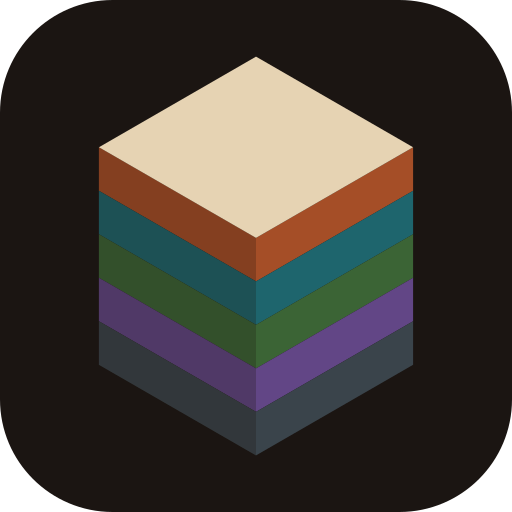
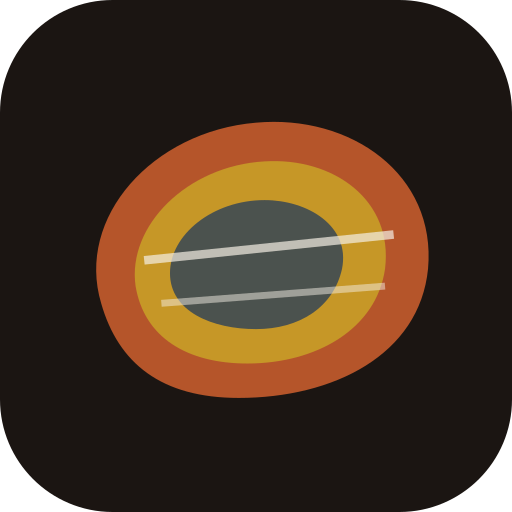
Il marchio torna il sasso a tre strati; le icone dell'app rifatte da quello (il PNG vecchio era corrotto)

diff --git a/scripts/marchio.ts b/scripts/marchio.ts
@@ -1,61 +1,46 @@
-// Il marchio di UniGeo: un blocco di roccia in isometrica, con gli strati nei
-// colori delle cinque materie (gli stessi della striscia sotto la barra).
-// Genera public/favicon.svg, public/icone/unigeo.svg e le versioni PNG:
-// icona dell'app (192, 512), mascherabile (512), apple-touch (180), favicon (32).
+// Il marchio di UniGeo: il sasso a tre strati (ruggine, ocra, ardesia) con le
+// due venature chiare. Genera public/favicon.svg, public/icone/unigeo.svg e le
+// versioni PNG: icona dell'app (192, 512), mascherabile (512), apple-touch (180),
+// favicon (32, trasparente).
 // Uso: npx tsx scripts/marchio.ts
 import { mkdirSync, writeFileSync } from "node:fs";
 import sharp from "sharp";
 
-const STRATI = ["#B5552A", "#1F6F78", "#3F6E3A", "#6A4C93", "#3E4A52"];
-const SABBIA = "#e6d3b3";
 const FONDO = "#1b1512";
-const INK = "#1a110c";
 
-/**
- * Il disegno in un riquadro 100 × 100.
- * @param scala 1 = il blocco occupa circa i due terzi del riquadro
- * @param angoli raggio dei lati dello sfondo (0 = a tutto campo, per le icone mascherabili)
- */
-function marchio(scala: number, angoli: number): string {
-  const A = 26 * scala;
-  const B = 15 * scala;
-  const H = 36 * scala;
-  const cx = 50;
-  const cy = 50 - (H + 2 * B) / 2 + B; // lo spigolo di sopra: il blocco sta al centro
-  const P = (x: number, y: number, z: number) => `${(cx + (x - y) * A).toFixed(2)},${(cy - B + (x + y) * B + z).toFixed(2)}`;
-  // x e y corrono lungo i due spigoli della base; z scende (verso il basso dello schermo).
-  const sinistra = (z0: number, z1: number) => [P(0, 1, z0), P(1, 1, z0), P(1, 1, z1), P(0, 1, z1)].join(" ");
-  const destra = (z0: number, z1: number) => [P(1, 1, z0), P(1, 0, z0), P(1, 0, z1), P(1, 1, z1)].join(" ");
-  const sopra = [P(0, 0, 0), P(1, 0, 0), P(1, 1, 0), P(0, 1, 0)].join(" ");
-  const passo = H / STRATI.length;
-  const bande = STRATI.map((c, i) => {
-    const z0 = i * passo;
-    const z1 = (i + 1) * passo;
-    return `<polygon points="${sinistra(z0, z1)}" fill="${c}"/><polygon points="${destra(z0, z1)}" fill="${c}"/>`;
-  }).join("");
+// Il disegno originale (riquadro 100 × 100, centro a 50,51).
+const SASSO = `<path d="M14,62 C8,42 26,22 50,20 C72,18 92,32 90,54 C88,74 68,84 46,84 C28,84 18,76 14,62 Z" fill="#B5552A"/>
+<path d="M22,58 C20,44 34,30 52,29 C68,28 82,38 80,54 C78,68 64,76 48,76 C34,76 24,70 22,58 Z" fill="#C9A227" opacity=".85"/>
+<path d="M30,55 C30,46 40,38 52,38 C62,38 72,44 70,54 C68,63 60,68 50,68 C40,68 30,64 30,55 Z" fill="#3E4A52" opacity=".9"/>
+<path d="M24,52 L82,46" stroke="#F4EEE3" stroke-width="2" opacity=".7"/>
+<path d="M28,62 L80,58" stroke="#F4EEE3" stroke-width="1.6" opacity=".5"/>`;
+
+/** Il sasso su fondo scuro, a scala `scala` e al centro del riquadro. */
+function suFondo(scala: number, angoli: number): string {
   return `<svg xmlns="http://www.w3.org/2000/svg" viewBox="0 0 100 100">
 <rect width="100" height="100" rx="${angoli}" fill="${FONDO}"/>
-${bande}
-<polygon points="${sinistra(0, H)}" fill="${INK}" fill-opacity="0.32"/>
-<polygon points="${destra(0, H)}" fill="${INK}" fill-opacity="0.1"/>
-<polygon points="${sopra}" fill="${SABBIA}"/>
+<g transform="translate(50 50) scale(${scala}) translate(-50 -51)">
+${SASSO}
+</g>
 </svg>
 `;
 }
+
+const trasparente = `<svg viewBox="0 0 100 100" xmlns="http://www.w3.org/2000/svg">
+${SASSO}
+</svg>
+`;
 
 async function png(svg: string, lato: number, file: string) {
   await sharp(Buffer.from(svg), { density: 384 }).resize(lato, lato).png().toFile(file);
 }
 
 mkdirSync("public/icone", { recursive: true });
-const tondo = marchio(1.18, 22);
-const pieno = marchio(1.18, 0);
-const sicuro = marchio(0.92, 0); // dentro il 80% centrale, come chiede «maskable»
-writeFileSync("public/favicon.svg", tondo);
-writeFileSync("public/icone/unigeo.svg", tondo);
-await png(tondo, 32, "public/icone/unigeo-32.png");
-await png(tondo, 192, "public/icone/unigeo-192.png");
-await png(tondo, 512, "public/icone/unigeo-512.png");
-await png(sicuro, 512, "public/icone/unigeo-maskable-512.png");
-await png(pieno, 180, "public/icone/unigeo-apple-180.png");
+writeFileSync("public/favicon.svg", trasparente);
+writeFileSync("public/icone/unigeo.svg", trasparente);
+await png(trasparente, 32, "public/icone/unigeo-32.png");
+await png(suFondo(0.84, 22), 192, "public/icone/unigeo-192.png");
+await png(suFondo(0.84, 22), 512, "public/icone/unigeo-512.png");
+await png(suFondo(0.62, 0), 512, "public/icone/unigeo-maskable-512.png"); // dentro l'80% centrale
+await png(suFondo(0.8, 0), 180, "public/icone/unigeo-apple-180.png");
 console.log("Marchio generato.");

diff --git a/CLAUDE.md b/CLAUDE.md
@@ -458,14 +458,15 @@ due settimane di fila salta, il problema non è nel codice.
 - **13/10/2026 — Geologia 1 lezione 9 («Classificazione delle rocce sedimentarie», Piazza).**
   Claude Chat l'aveva numerata 8 (come «Il processo sedimentario»): rinumerata 9 (file e id del
   quiz `lez09-…`). Quiz da 15 domande; campioni del campionario tutti presenti. DPI ritirati.
-- **15/10/2026 — Marchio e icone nuovi.** La favicon era «tagliata a metà» perché `app-512.png`
-  (apple-touch e manifest) era un PNG troncato/corrotto. Nuovo marchio: blocco di roccia in
-  isometrica con strati nei colori delle cinque materie, sabbia sopra, fondo bruno
-  (`scripts/marchio.ts` genera tutto: `favicon.svg`, `icone/unigeo.svg`, `unigeo-32/192/512.png`,
-  `unigeo-maskable-512.png`, `unigeo-apple-180.png`). Manifest con 3 icone (any + maskable);
-  tutto `/icone/` è raggiungibile senza chiave; il service worker mette in cache le icone per
-  sempre (cache first): per cambiarle bisogna cambiare nome ai file o salire `VERSIONE` in
-  `public/sw.js` (ora v4). Marchio anche nel menu e nella pagina d'accesso.
+- **15/10/2026 — Marchio: resta il sasso a tre strati (quello che a Daniele piace).** La
+  favicon risultava «tagliata a metà» perché `icone/app-512.png` (apple-touch e manifest) era
+  un PNG troncato. Un primo tentativo con un blocco isometrico è stato bocciato («era molto più
+  bello quello di prima»): non cambiare il marchio senza chiedere. `scripts/marchio.ts`
+  rigenera da quel disegno `favicon.svg`, `icone/unigeo.svg` (trasparenti) e i PNG su fondo
+  bruno: `unigeo-32/192/512.png`, `unigeo-maskable-512.png`, `unigeo-apple-180.png`. Manifest
+  con 3 icone (any + maskable); tutto `/icone/` è raggiungibile senza chiave; il service worker
+  tiene le icone in cache per sempre (cache first): per cambiarle cambiare nome ai file o salire
+  `VERSIONE` in `public/sw.js` (ora v4).
 - **14/10/2026 — Geografia fisica lezioni 8 e 9 (Brandolini, 14/10).** Lez 8 (mattina): curve di
   livello, equidistanza, direttrici/intermedie, pendenza e inclinazione (procedure). Lez 9
   (pomeriggio, solo in parte documentata: audio dei primi minuti + appunti di un compagno):
